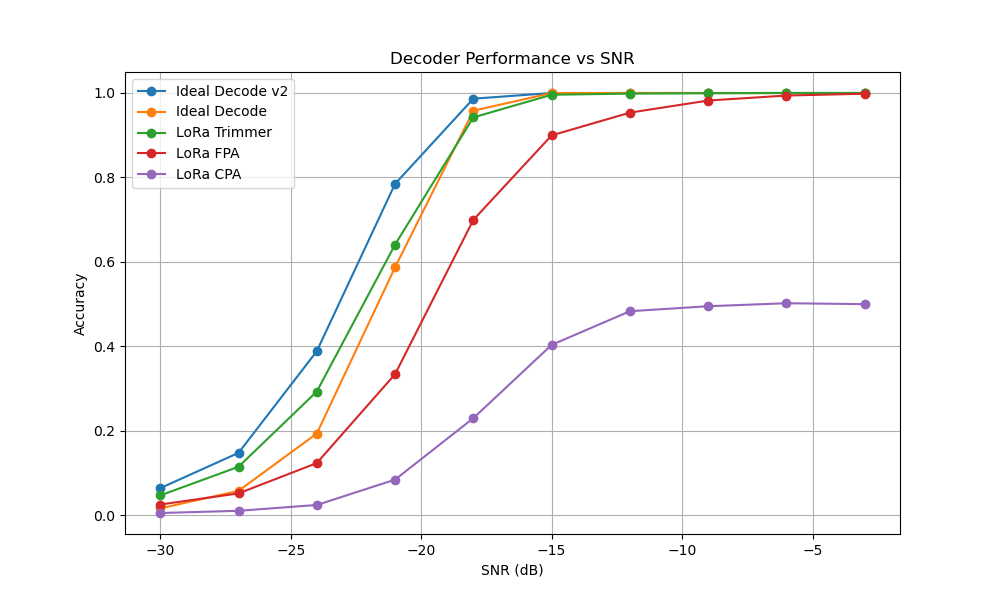
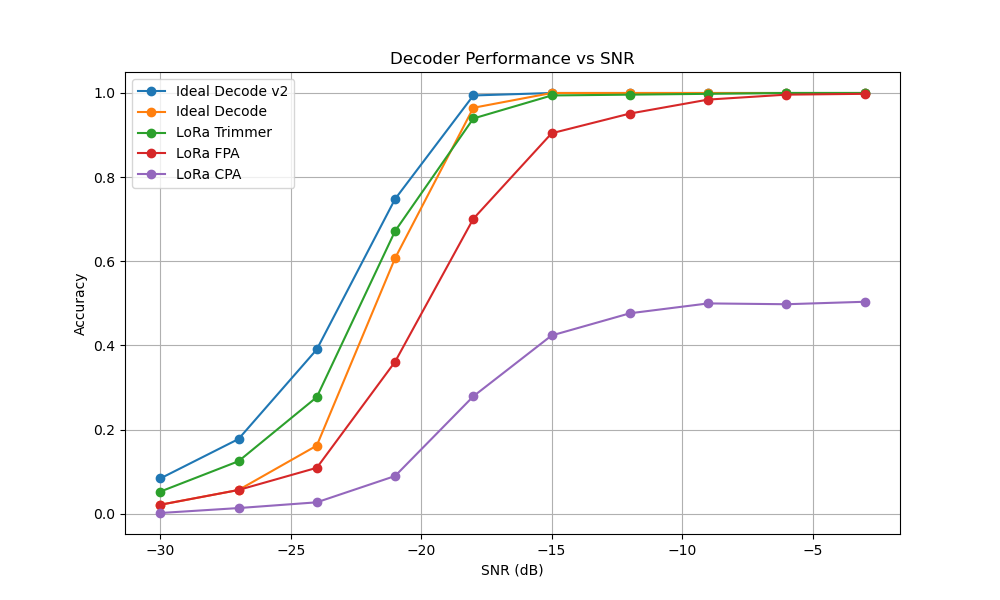
before holidays

diff --git a/pyLoRa.py b/pyLoRa.py
@@ -80,21 +80,7 @@ class pyLoRa:
         max_magnitude = np.max(magnitudes)
         max_idx = np.argmax(magnitudes)
         return max_idx, max_magnitude
-    def loraphy_CPA(self, sig):
-        down_chirp = self.ideal_chirp(f0=0, iq_invert=1)
-        dechirp = sig * down_chirp
-        # Compute FFT
-        fft_result = np.fft.fft(dechirp)
 
-        # Get magnitude spectrum (absolute values)
-        magnitudes = np.abs(fft_result)
-
-
-        n = len(magnitudes) // 2
-        magnitudes = magnitudes[:n] + np.append(np.flip( magnitudes[n:] ), magnitudes[n])[1:]
-        max_magnitude = np.max(magnitudes)
-        max_idx = np.argmax(magnitudes)
-        return max_idx, max_magnitude
 
     def reverse_arr(self,iq_data,beg,end):
         while(end > beg):
@@ -151,7 +137,7 @@ class pyLoRa:
         plt.tight_layout()
         plt.show()
 
-    def loraphy_FPA(self, sig):
+    def loraphy(self, sig):
         upsampling = 100  # up-sampling rate for loraphy, default 100
         # upsamping can counter possible frequency misalignments, finding the highest position of the signal peak,
         # but higher upsampling lead to more noise
@@ -181,6 +167,42 @@ class pyLoRa:
             result[i] = self.ideal_chirp(f0=i,iq_invert=1)
             self.f0 = i
         return result
+    def our_ideal_decode_decodev2z(self,sig):
+        downchirp = lora.ideal_chirp(f0=0,iq_invert=1)
+        dechirped = sig * downchirp
+        fft_raw = np_fft(dechirped, len(dechirped))
+        useful = fft_raw[:self.get_samples_per_symbol()]
+        mag = np.abs(useful) ** 2
+        est = np.argmax(mag)
+        max_val = np.max(mag)
+        return est, max_val
+
+    def our_ideal_decode_decodev2x(self, sig):
+        mtx = self.gen_tone_matrix()
+        sig = sig * lora.ideal_chirp(f0=0,iq_invert=1)
+        sig = np.array(sig).T
+        result = np.matmul(mtx, sig)
+        vals = np.abs(result) ** 2
+        est = np.argmax(vals).item()
+        max_val = np.max(vals).item()
+        return est, max_val
+
+    def gen_tone_matrix(self):
+        num_classes = 2 ** self.sf  # number of codes per symbol == 2 ** sf
+        num_samples = int(num_classes * self.fs / self.bw)  # number of samples per symbol
+        result = np.zeros((num_classes, num_samples), dtype=np.complex64)
+        for i in range(num_classes):
+            result[i] = self.gen_tone(freq=- i * self.bw / num_classes)
+        return result
+    def gen_tone(self, freq):
+        length = self.get_samples_per_symbol()
+        fs = self.fs
+        t = np.arange(length) / fs
+        signal = np.exp(1j * 2 * np.pi * freq * t)
+        return signal
+
+
+
     def gen_constants(self):
         num_classes = 2 ** self.sf  # number of codes per symbol == 2 ** sf
         num_samples = int(num_classes * self.fs / self.bw)  # number of samples per symbol
@@ -388,14 +410,6 @@ class pyLoRa:
             ii += self.get_samples_per_symbol()
 
 
-
-
-
-
-
-
-
-
 lora = pyLoRa()
 
 
@@ -405,6 +419,14 @@ if __name__ == '__main__':
     lora.read_file("/Users/junhui/code/test/nm.cfile")
     lora.preamble_len = 6
     index = 0
+    sigx = lora.ideal_chirp(f0=123)
+    print(lora.our_ideal_decode_decodev2z(sig=sigx))
+    print(lora.our_ideal_decode_decodev2x(sig=sigx))
+    print(lora.our_ideal_decode_decodev2(sig=sigx))
+
+
+
+
     # index = lora.detect(start_index=index)
     # index = lora.sync(x=index)
     # lora.limit_save(start=index, num=64, func=lora.our_ideal_decode_decodev2, prefix="./ideal",one=1)
@@ -414,11 +436,12 @@ if __name__ == '__main__':
     # index = lora.sync(x=index)
     # lora.limit_save(start=index, num=64, func=lora.our_ideal_decode_decodev2, prefix="./ideal",one=1)
     # index = lora.limit_demodulate(start=index, symbols=98, func=lora.our_ideal_decode_decodev2)
-    for i in range(6):
-        index = lora.detect(start_index=index)
-        index = lora.sync(x=index)
-        lora.limit_save(start=index,num=80,func=lora.loratrimmer_decode,prefix="./real")
-        index = lora.limit_demodulate(start=index,symbols=98,func = lora.loratrimmer_decode)
+
+    # for i in range(6):
+    #     index = lora.detect(start_index=index)
+    #     index = lora.sync(x=index)
+    #     lora.limit_save(start=index,num=80,func=lora.loratrimmer_decode,prefix="./real")
+    #     index = lora.limit_demodulate(start=index,symbols=98,func = lora.loratrimmer_decode)
 
 
 

diff --git a/test_claude.py b/test_claude.py
@@ -3,7 +3,7 @@ from pyLoRa import lora
 import os
 import numpy as np
 import matplotlib.pyplot as plt
-
+from datetime import datetime
 
 def load_sig(file_path):
     return lora.read_file(file_path)
@@ -12,15 +12,17 @@ def load_sig(file_path):
 def test_multiple_snr():
     # SNR范围从-30到-3，步进为3
     snr_range = np.arange(-30, -2, 3)
-    epochs = 100  # 可以根据需要调整
+    epochs = 40  # 可以根据需要调整
 
     # 存储每个函数在不同SNR下的准确率
     results = {
         'Ideal Decode v2': [],
         'Ideal Decode': [],
         'LoRa Trimmer': [],
-        'LoRa FPA': [],
-        'LoRa CPA': []
+        'LoRaPHY': [],
+        'Ideal Decode v2x': [],
+        'Ideal Decode v2z': []
+
     }
 
     # 测试函数配置
@@ -28,8 +30,9 @@ def test_multiple_snr():
         ('Ideal Decode v2', './ideal', lora.our_ideal_decode_decodev2),
         ('Ideal Decode', './ideal', lora.our_ideal_decode),
         ('LoRa Trimmer', './real', lora.loratrimmer_decode),
-        ('LoRa FPA', './real', lora.loraphy_FPA),
-        ('LoRa CPA', './real', lora.loraphy_CPA)
+        ('LoRaPHY', './real', lora.loraphy),
+        ('Ideal Decode v2x', './ideal', lora.our_ideal_decode_decodev2x),
+        ('Ideal Decode v2z', './ideal', lora.our_ideal_decode_decodev2z),
     ]
 
     # 对每个SNR值进行测试
@@ -64,7 +67,8 @@ def test_multiple_snr():
     plt.title('Decoder Performance vs SNR')
     plt.grid(True)
     plt.legend()
-    plt.savefig('decoder_performance.png')
+    timestamp = datetime.now().strftime('%Y%m%d-%H%M%S')
+    plt.savefig('decoder_performance' + timestamp + '.png')
     plt.close()
 
     return results

diff --git a/test_lora.py b/test_lora.py
@@ -1,3 +1,4 @@
+# 测试不同解码方法性能
 import pytest
 from pyLoRa import lora
 import os
@@ -49,7 +50,7 @@ def test_snr_epoch_trimer_all(snr,epochs,dir_path, func):
     print(result/(epochs*128))
     return result/(epochs*128)
 
-@pytest.mark.parametrize("snr,epochs,dir_path,func", [
+@pytest.mark.parametrize("snr,epochs,symbol,dir_path,func", [
     (-20, 100,1,"./ideal",lora.our_ideal_decode_decodev2),
     (-20, 100,1,"./real",lora.loratrimmer_decode),
     (-20, 100,1,"./real",lora.loraphy_FPA),
@@ -69,4 +70,6 @@ def test_snr_epoch_trimer_symbol(snr,epochs,symbol,dir_path, func):
         if ret == truth:
             result += 1
     print(result/(epochs*128))
-    return result/(epochs*128)
+    success_rate = result / (epochs * 128)
+    assert success_rate >= 0
+   #return result/(epochs*128)

diff --git a/test_symbol.py b/test_symbol.py
@@ -1,4 +1,4 @@
-import pytest
+# 测试不同symbol的解码性能
 from pyLoRa import lora
 import os
 import numpy as np

diff --git a/testing.py b/testing.py
@@ -1,0 +1,2 @@
+if __name__ == '__main__':
+    print("Hello World!")
